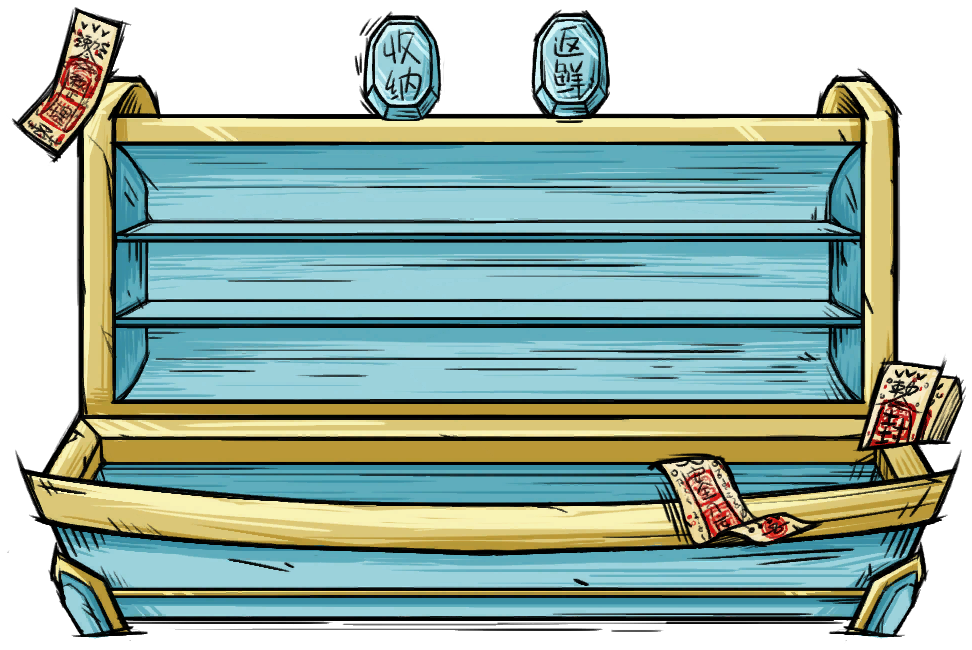
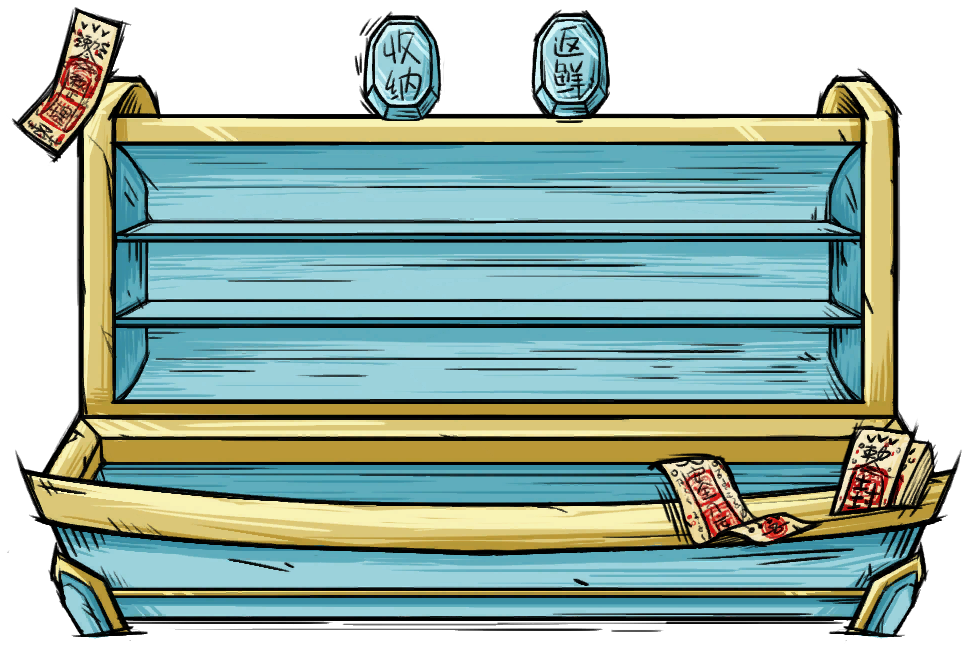
内容：纳物箱界面图的「封」按钮往下、往里挪（不许露到箱子外面）
陛下指出红框处「封」压在箱子右沿外，要求再往下、不要露出来。

- 先核对了锚点：面板图的透明边为零（可见区域 bbox 正好等于 957×578 画布），
  所以水平居中映射没问题，是**源码坐标本身**把「封」放在面板右沿外
- 「封」源码是 (400,-85)，按映射算中心落在面板 x=878，按钮宽 162 → 右边缘 959 越界；
  改成 (372,-150) → 面板坐标 (856,466)：往下 65px、往里 22px，现在完全在箱体内
- 这是唯一一处手工微调，已在 compose_box_ui.py 与 anim/README.md 里注明原因，
  其余 4 个按钮仍是源码坐标直算
- 画布 969×650（仍有按钮压在面板上沿之外，游戏里不裁剪）

预览服务已确认给到新图（200，228883 字节）。校验：无错误、无失败项。

diff --git a/tools/compose_box_ui.py b/tools/compose_box_ui.py
@@ -42,7 +42,9 @@ BUTTONS_LIST = [
     ("lj_huangjie_box_collect.png", -85, 250),         # 收纳：上沿偏左
     ("lj_huangjie_box_fresh.png", 85, 250),            # 返鲜：上沿偏右
     ("lj_huangjie_box_store_normal.png", 250, -185),   # 安全入库：右下
-    ("lj_huangjie_box_close_normal.png", 400, -85),    # 封：右侧偏下
+    # 「封」源码里是 (400,-85)，按映射算会压在箱子右沿外面（用户要求「不许露出来」），
+    # 所以往下、往里挪一点：(372,-150) ≈ 面板坐标 (850,400)。这是唯一一处手工微调。
+    ("lj_huangjie_box_close_normal.png", 372, -150),   # 封：右侧偏下（手工微调过）
 ]
 
 

diff --git a/images/lingjie/anim/README.md b/images/lingjie/anim/README.md
@@ -25,6 +25,8 @@
 > 跟箱子图上三层架子的实际位置（≈100 / 180 / 255）完全对得上 —— 槽位必须摆在架子上。
 > 之前按「面板中心 = pos」算过一版，结果两个按钮飘到箱子外面（用户指正过两次）。
 > 有按钮会压在面板上沿之外（游戏里不裁剪），所以画布会自动向外扩到刚好包住全部内容。
+> **唯一一处手工微调**：「封」源码坐标 (400,-85) 按映射算会压在箱子右沿外面，
+> 用户要求「不许露出来」，所以改成 (372,-150)（往下、往里）。
 > 脚本：`tools/compose_box_ui.py`。
 
 > 两张 UI 图是**例外**：它们天生就大（957×578 与 809×765），上面那条「长边 ≤200px」的规矩
